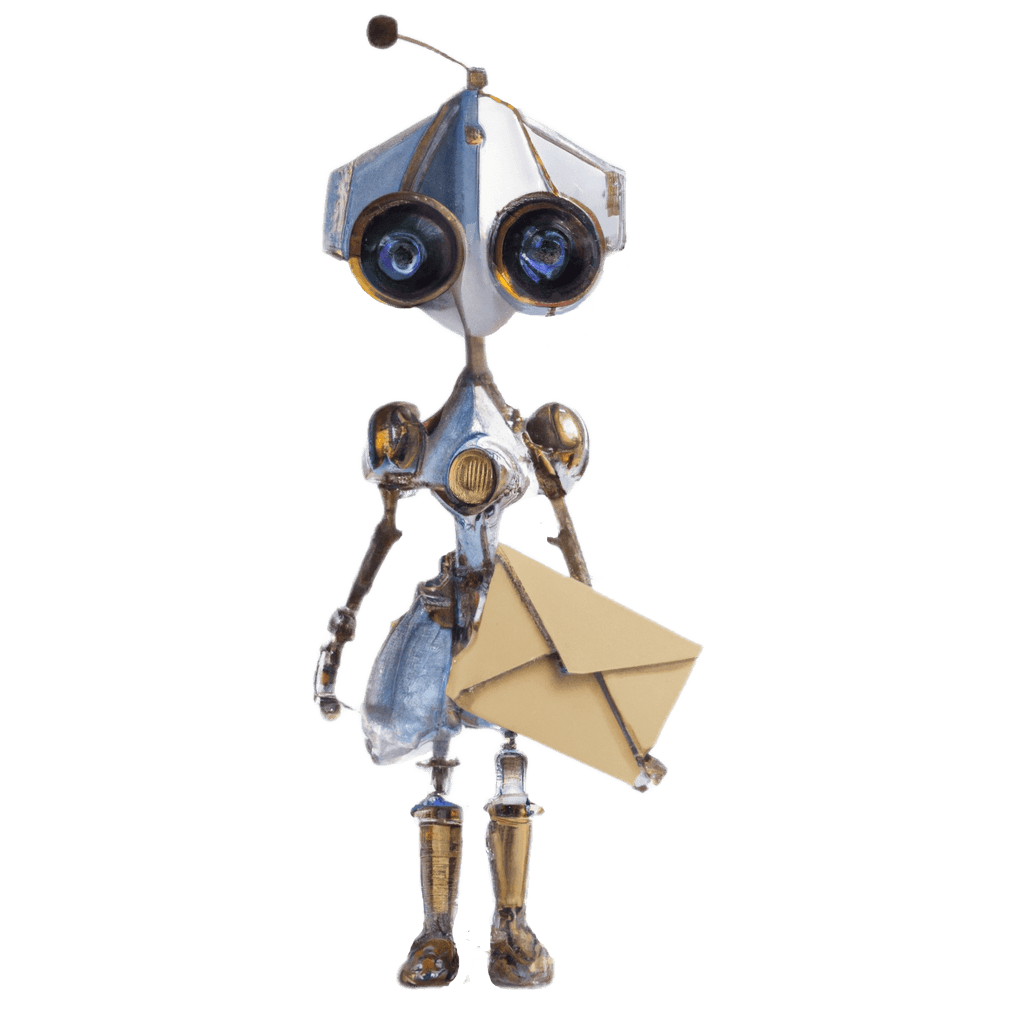
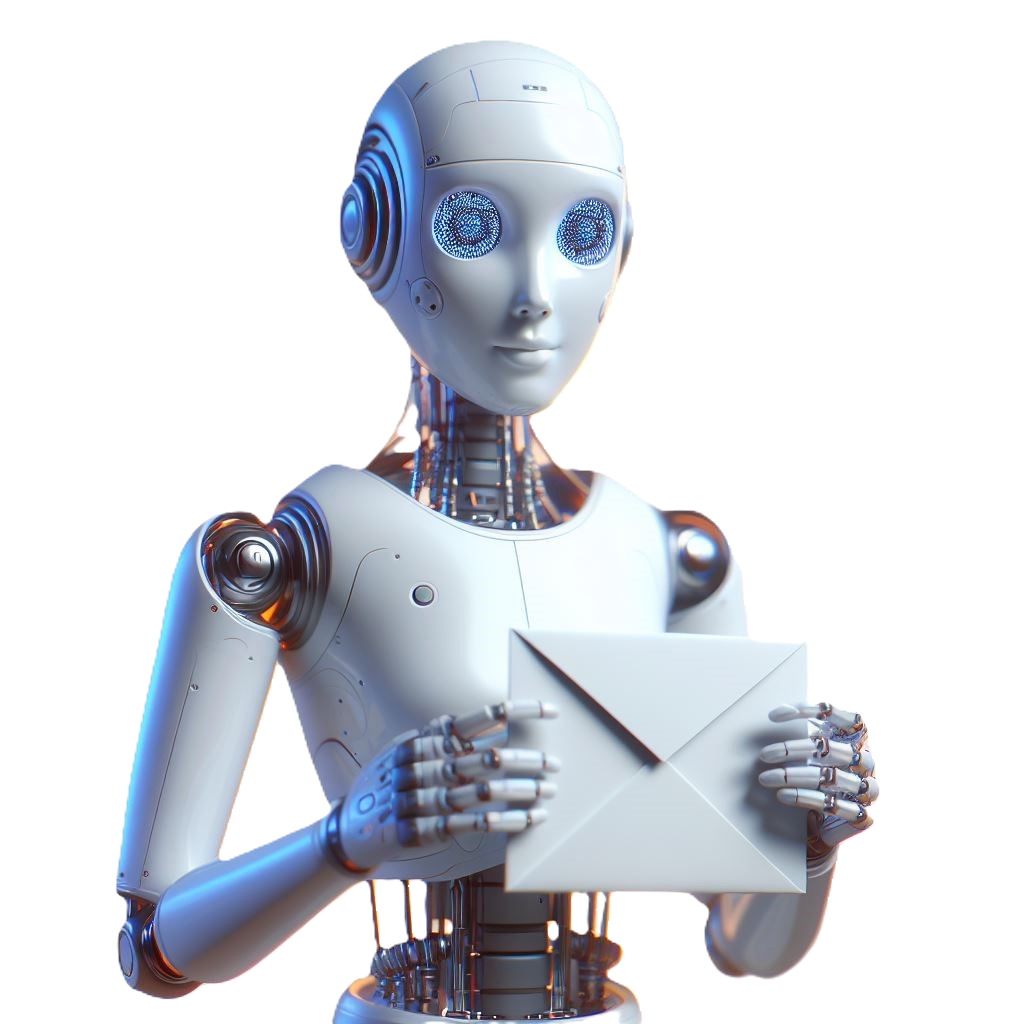
Update contact image

diff --git a/index.html b/index.html
@@ -5,7 +5,7 @@
   <meta charset="UTF-8">
   <meta name="viewport" content="width=device-width, initial-scale=1.0">
   <meta name="description"
-    content="Welcome to the Frontend Web Developer Portfolio of Dominique Bello, a MERN stack focused developer with expertise in JavaScript, React, Node.js, MongoDB, and more. I specialize in building dynamic and scalable web applications, and my portfolio includes a range of projects that showcase my skills, including a support-desk, a photo gallery, a movie database and a social media platform. Based in Paris, France, I am available for both local and remote opportunities. Contact me today to learn more about how I can help bring your web development projects to life.">
+        content="Welcome to the Frontend Web Developer Portfolio of Dominique Bello, a MERN stack focused developer with expertise in JavaScript, React, Node.js, MongoDB, and more. I specialize in building dynamic and scalable web applications, and my portfolio includes a range of projects that showcase my skills, including a support-desk, a photo gallery, a movie database and a social media platform. Based in Paris, France, I am available for both local and remote opportunities. Contact me today to learn more about how I can help bring your web development projects to life.">
   <link rel="apple-touch-icon" sizes="180x180" href="./apple-touch-icon.png">
   <link rel="icon" type="image/png" sizes="32x32" href="./favicon-32x32.png">
   <link rel="icon" type="image/png" sizes="16x16" href="./favicon-16x16.png">
@@ -44,7 +44,7 @@
       </ul>
     </nav>
     <button id="download-btn" type="button">CV<svg version="1" xmlns="http://www.w3.org/2000/svg" viewBox="0 0 48 48"
-        fill="currentColor">
+           fill="currentColor">
         <g>
           <polygon points="24,37.1 13,24 35,24" />
           <rect x="20" y="4" width="8" height="4" />
@@ -390,7 +390,7 @@
           <div class="modal-links">
             <a href="#Social-Media" type="button" class="button">View demo</a>
             <a href="https://github.com/Catevika?tab=repositories&q=Social-Chat&type=&language=&sort=" type="button"
-              class="button">View Code</a>
+               class="button">View Code</a>
           </div>
           <div class="card">
             <h4>Overview</h4>
@@ -436,10 +436,9 @@
         <div class="contact-text">
           <ul>
             <li>If you enjoy my work, please feel free to share your feedback on <svg width="1200" height="1227"
-                viewBox="0 0 1200 1227" fill="none" xmlns="http://www.w3.org/2000/svg">
-                <path
-                  d="M714.163 519.284L1160.89 0H1055.03L667.137 450.887L357.328 0H0L468.492 681.821L0 1226.37H105.866L515.491 750.218L842.672 1226.37H1200L714.137 519.284H714.163ZM569.165 687.828L521.697 619.934L144.011 79.6944H306.615L611.412 515.685L658.88 583.579L1055.08 1150.3H892.476L569.165 687.854V687.828Z"
-                  fill="current-color" />
+                   viewBox="0 0 1200 1227" fill="none" xmlns="http://www.w3.org/2000/svg">
+                <path d="M714.163 519.284L1160.89 0H1055.03L667.137 450.887L357.328 0H0L468.492 681.821L0 1226.37H105.866L515.491 750.218L842.672 1226.37H1200L714.137 519.284H714.163ZM569.165 687.828L521.697 619.934L144.011 79.6944H306.615L611.412 515.685L658.88 583.579L1055.08 1150.3H892.476L569.165 687.854V687.828Z"
+                      fill="current-color" />
               </svg></li>
             <li>If you are interested in my profile, for hiring me or for a collaboration, feel free to send an email</li>
           </ul>
@@ -467,7 +466,7 @@
   </main>
 
   <footer>
-    <p>&copy; 2023 - Made with ❤ by Catevika & DALL-E from&nbsp;OpenAi&nbsp;(robot)</p>
+    <p>&copy; 2023 - Made with ❤ by Catevika & Microsoft Designer (robot)</p>
     <p>
       <q>
         <span>You can't wait until life isn't hard anymore before you&nbsp;decide&nbsp;to&nbsp;be&nbsp;happy.</span>
